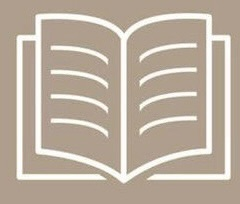
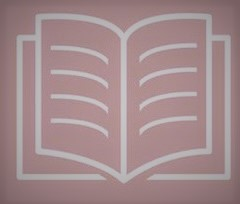
size edited

diff --git a/css/style.css b/css/style.css
@@ -75,6 +75,8 @@ header nav ul li:nth-child(3){
 	display: block;
     margin-left: auto;
     margin-right: auto;
+	width: 100px;
+	height: 100px;
 }
 h1, h2, h3, h4, h5{
   font-weight: bold;
